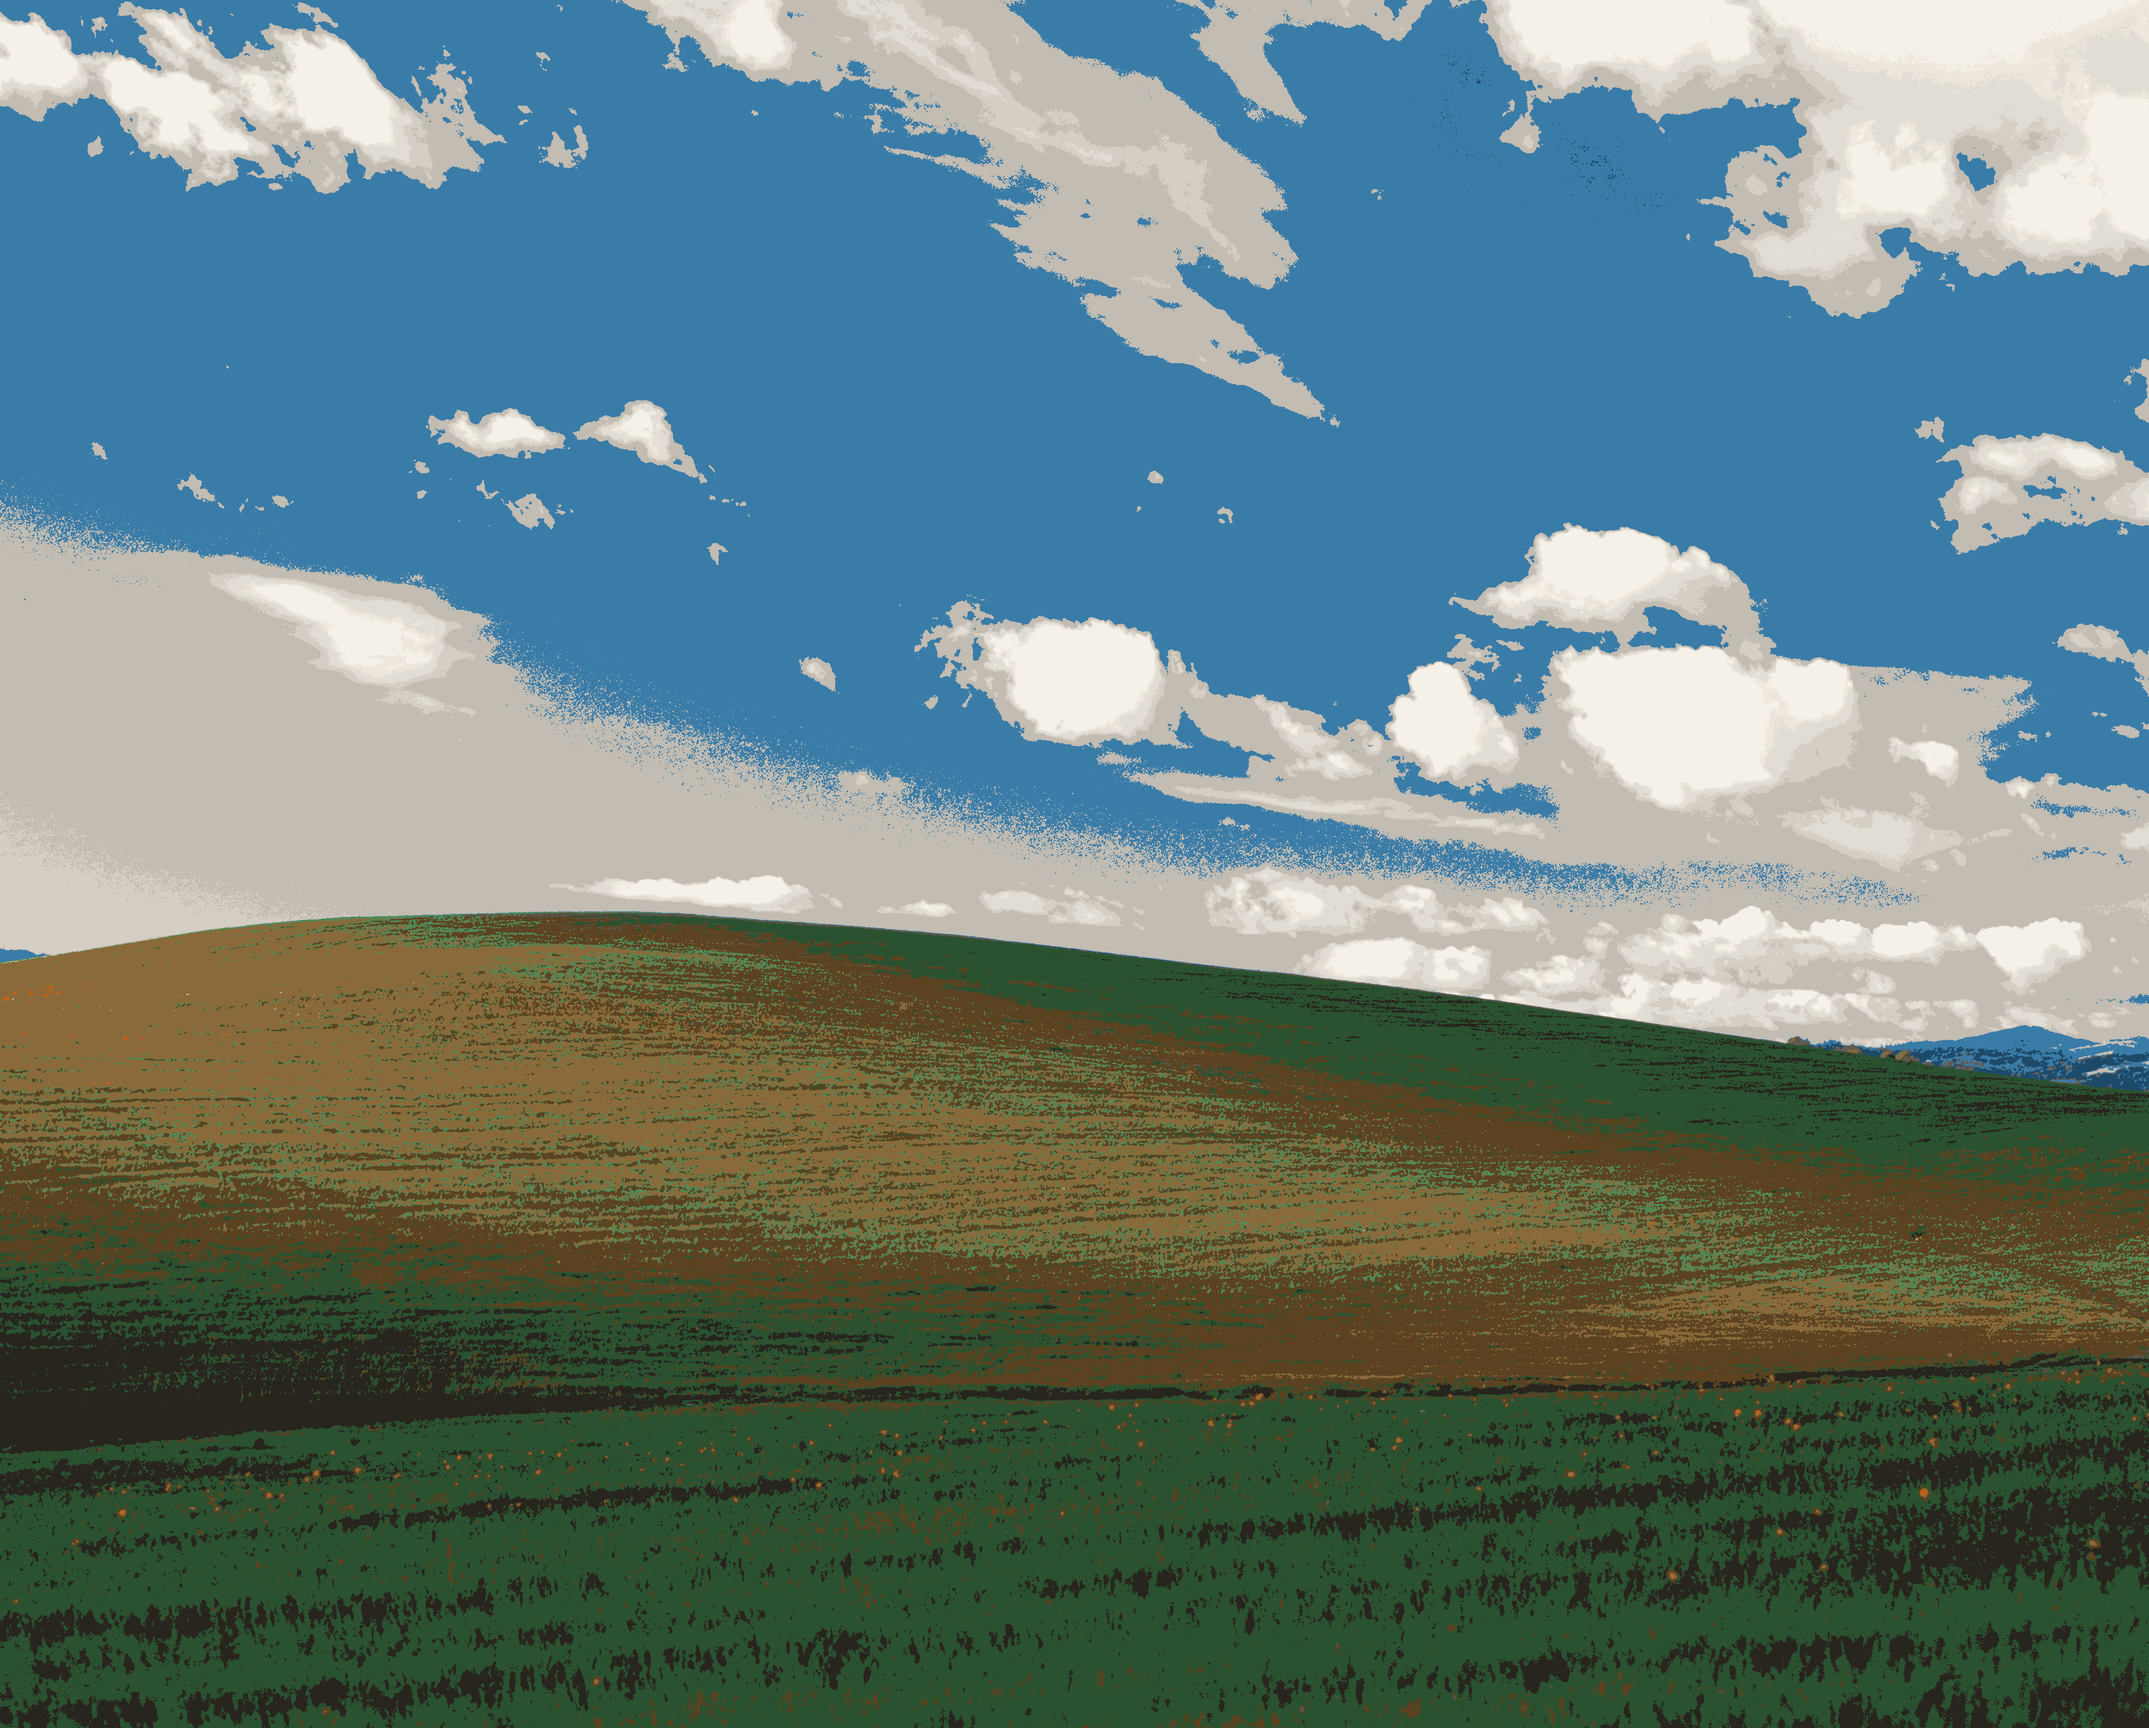
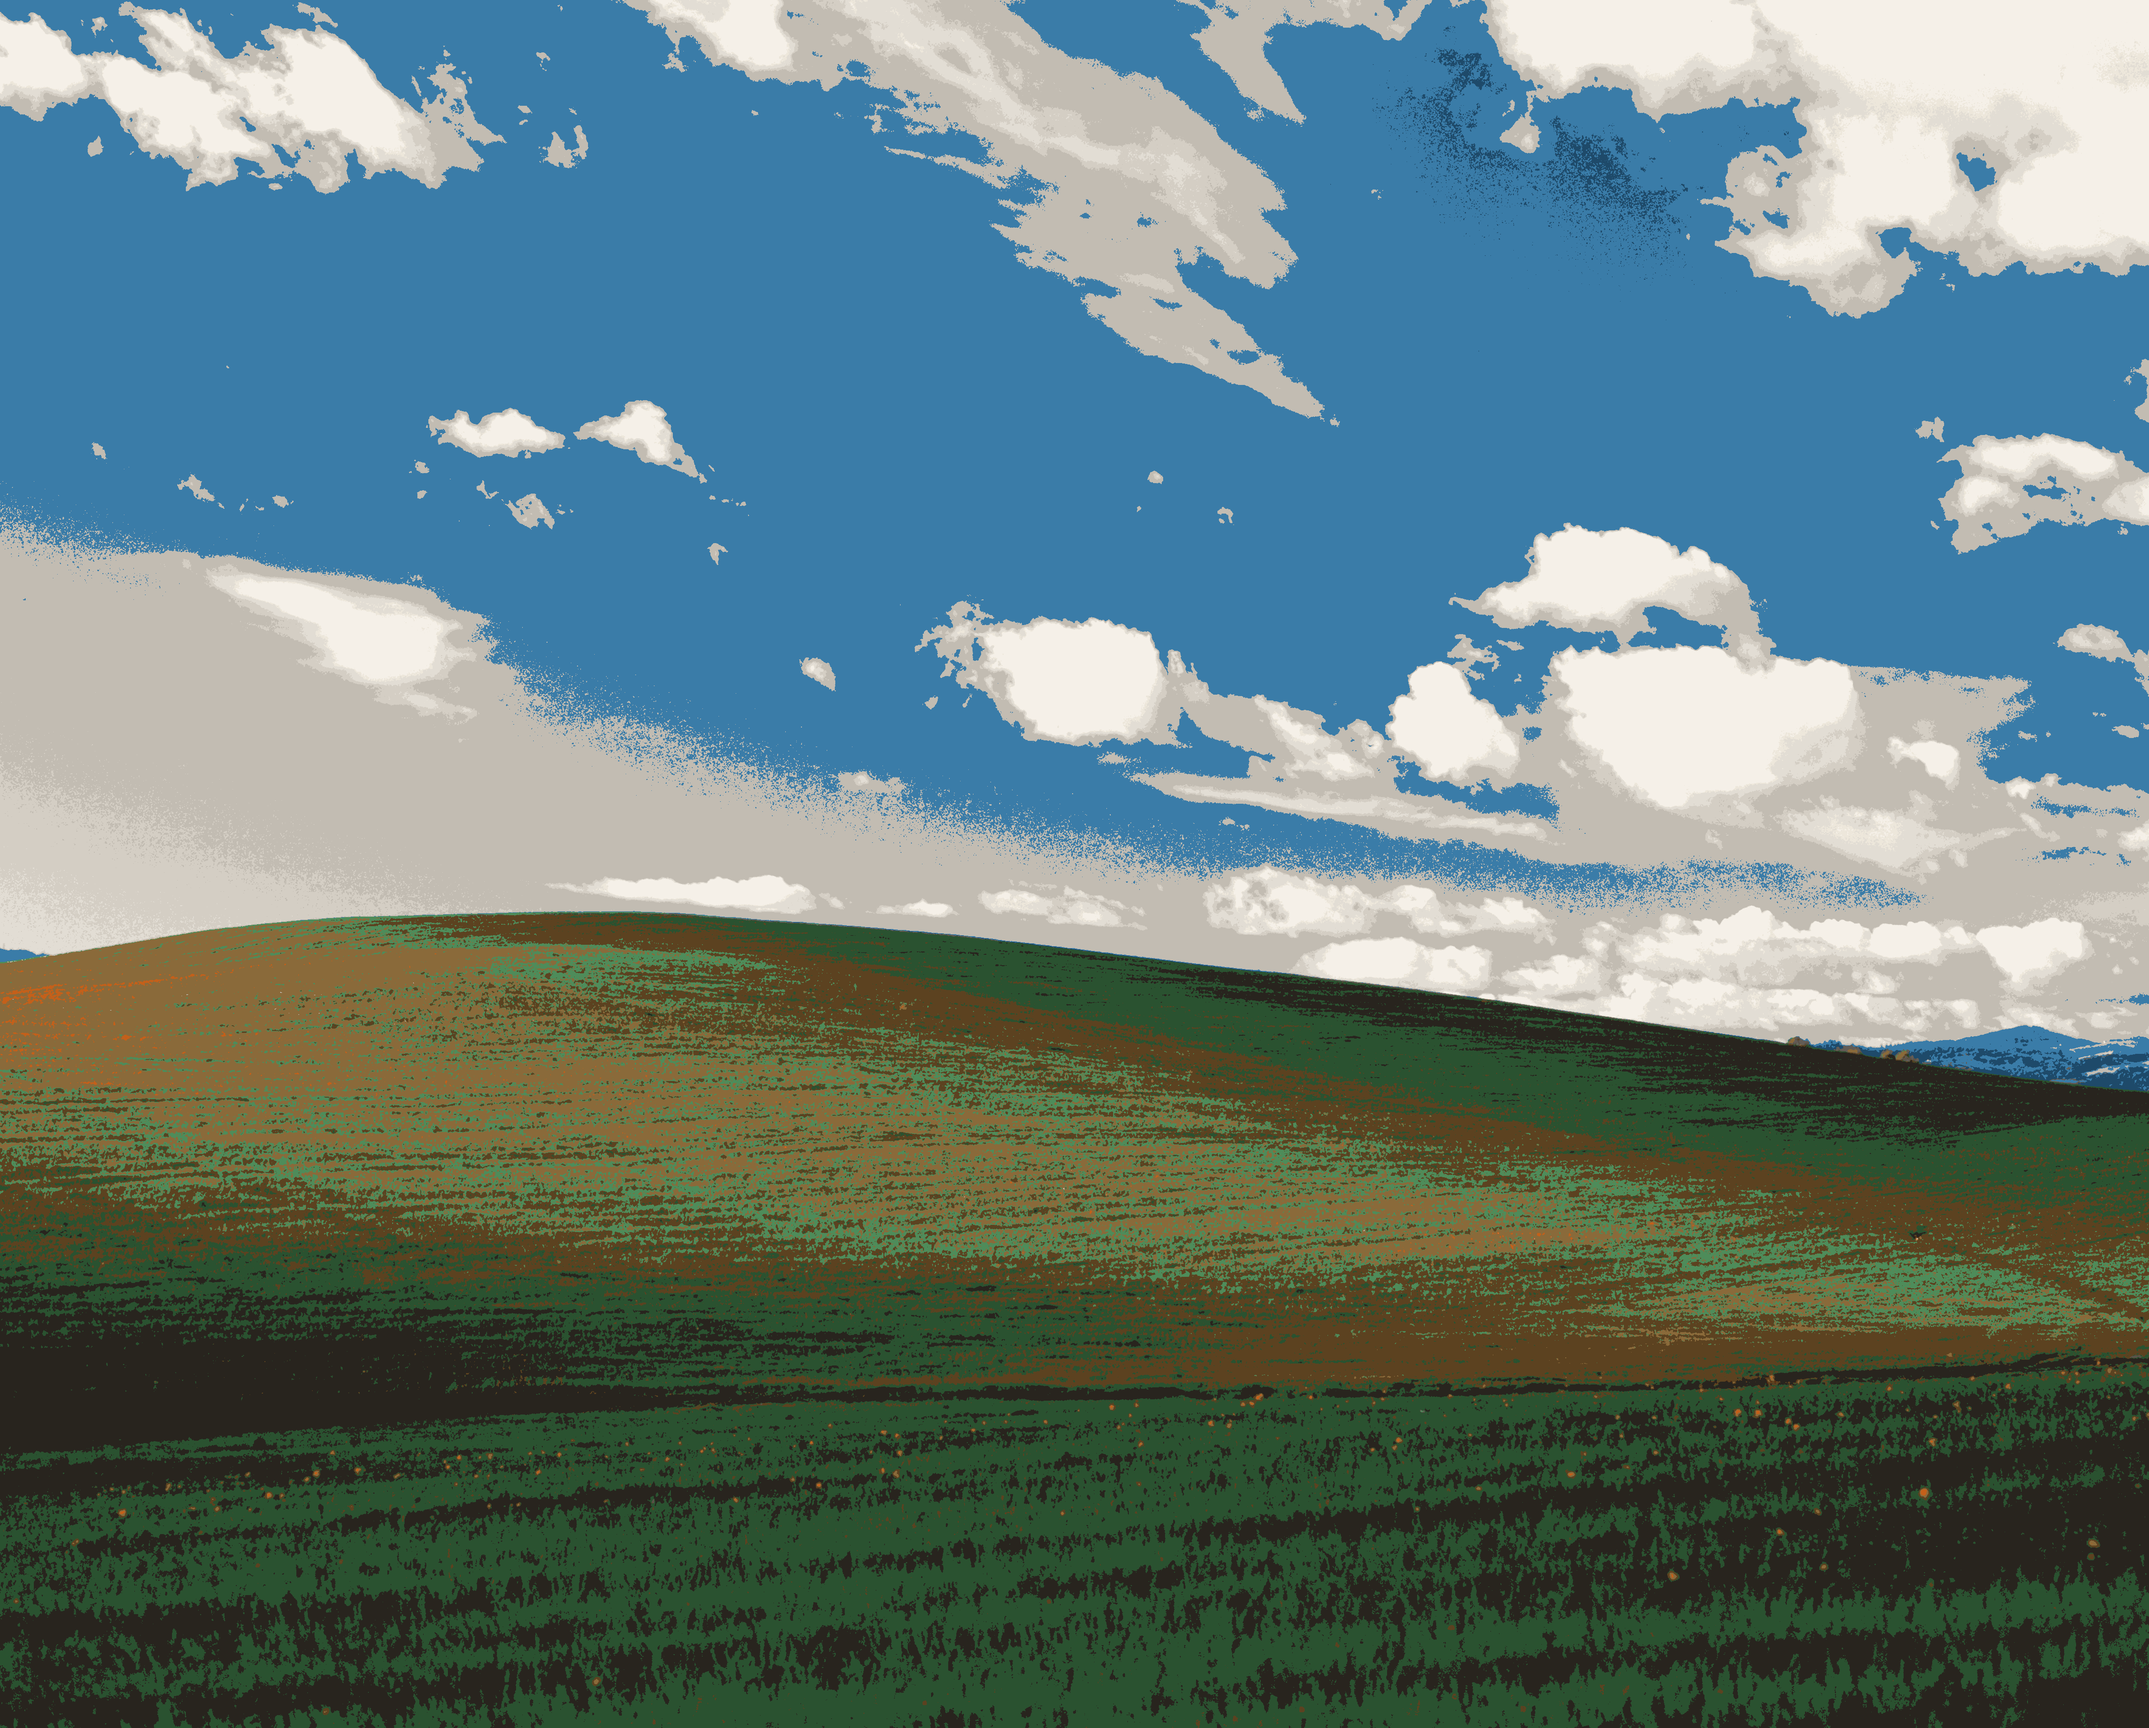
Fix some grammar

diff --git a/wallpaper/melancholy-wallpaper.py b/wallpaper/melancholy-wallpaper.py
@@ -50,7 +50,7 @@ PAL_NIGHT = [
 ]
 
 
-def apply_melancholy_pro(input_path, palette, output_path, is_night=False):
+def apply_melancholy_pro(input_path, palette, output_path, mode="morning"):
     go_nord = GoNord()
     go_nord.reset_palette()
     for color in palette:
@@ -59,14 +59,17 @@ def apply_melancholy_pro(input_path, palette, output_path, is_night=False):
     # Load image
     img = Image.open(input_path).convert("RGB")
 
-    # To fix "Harshness": We slightly pull back the contrast
-    # before processing. This forces the image to use more
-    # of the mid-tone grays/beiges in your palette.
-    if is_night:
+    # ── OPTIMIZATION: Mode-Specific Pre-Processing ──
+    if mode == "night":
+        # Soften shadows to use more mid-tone browns (Prevents harshness)
         img = ImageEnhance.Contrast(img).enhance(0.85)
+    else:
+        # Boost Morning contrast slightly so 'Parchment' doesn't look like 'Gray'
+        img = ImageEnhance.Contrast(img).enhance(1.1)
+        # Subtle saturation boost helps the denim blues and oranges pop
+        img = ImageEnhance.Color(img).enhance(1.1)
 
-    # Process using the core GoNord algorithm
-    # This maps pixels to the palette based on perceptual distance
+    # Core GoNord conversion
     result = go_nord.convert_image(img)
 
     result.save(output_path, quality=95)
@@ -80,15 +83,13 @@ def main():
     input_path = sys.argv[1]
     base = os.path.splitext(input_path)[0]
 
-    print("--- Refining Melancholy System ---")
+    print("── Melancholy System: Writing Wallpapers ──")
 
-    # Morning: Aiming for a soft, parchment-like stellar nursery
-    apply_melancholy_pro(input_path, PAL_MORNING, f"{base}-morning-refined.png")
+    # Morning: Soft, paper-like, tactile
+    apply_melancholy_pro(input_path, PAL_MORNING, f"{base}-morning.png", mode="morning")
 
-    # Night: Softening the contrast to remove the 'harsh' feel
-    apply_melancholy_pro(
-        input_path, PAL_NIGHT, f"{base}-night-refined.png", is_night=True
-    )
+    # Night: Deep, moody, low-contrast
+    apply_melancholy_pro(input_path, PAL_NIGHT, f"{base}-night.png", mode="night")
 
 
 if __name__ == "__main__":
